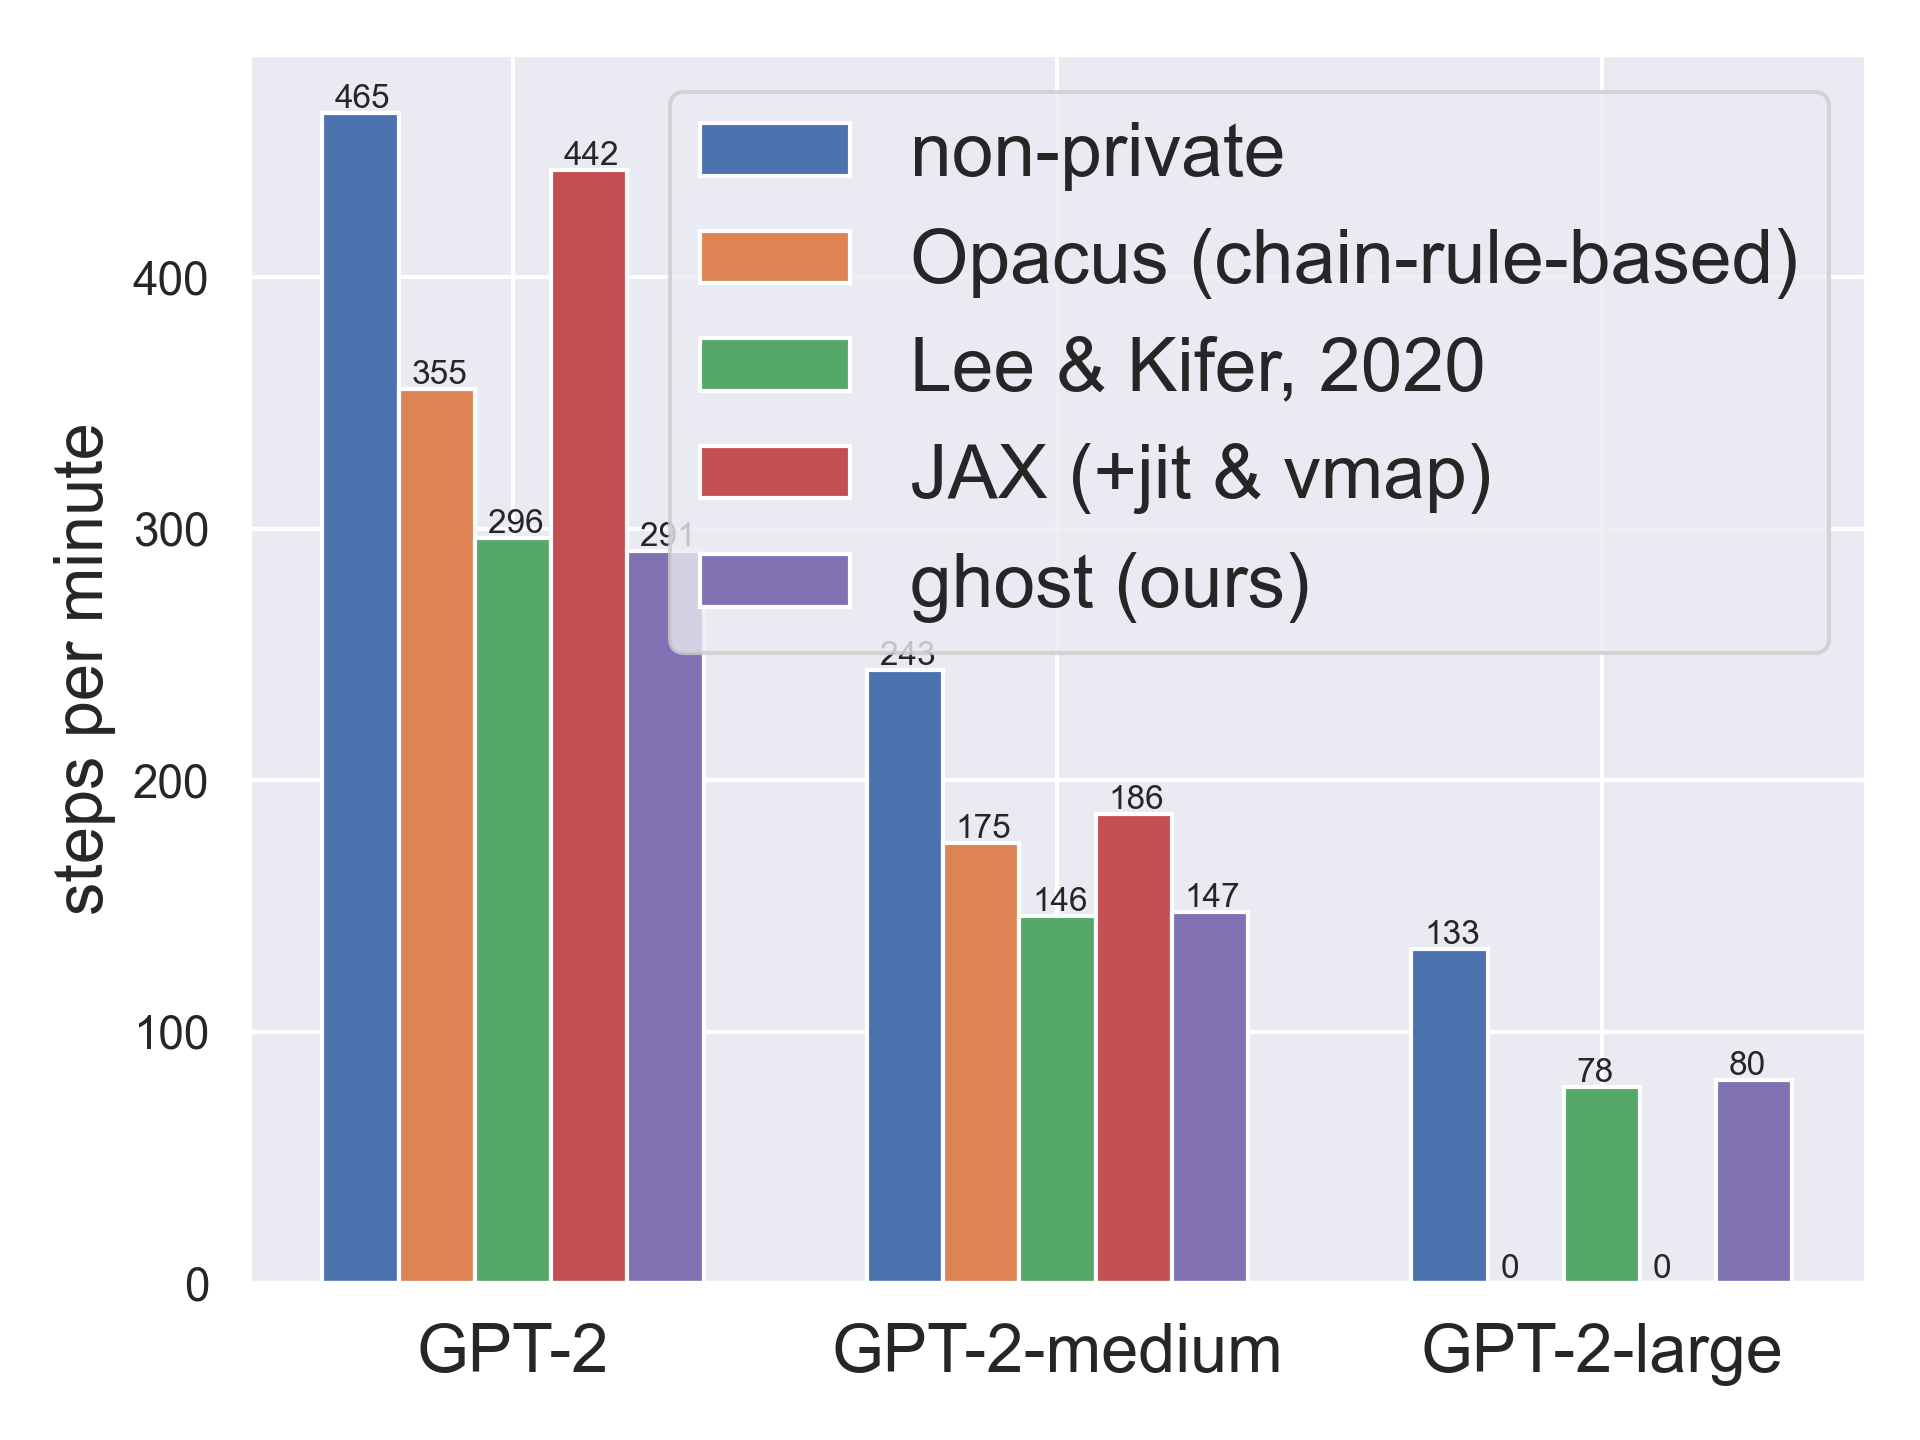
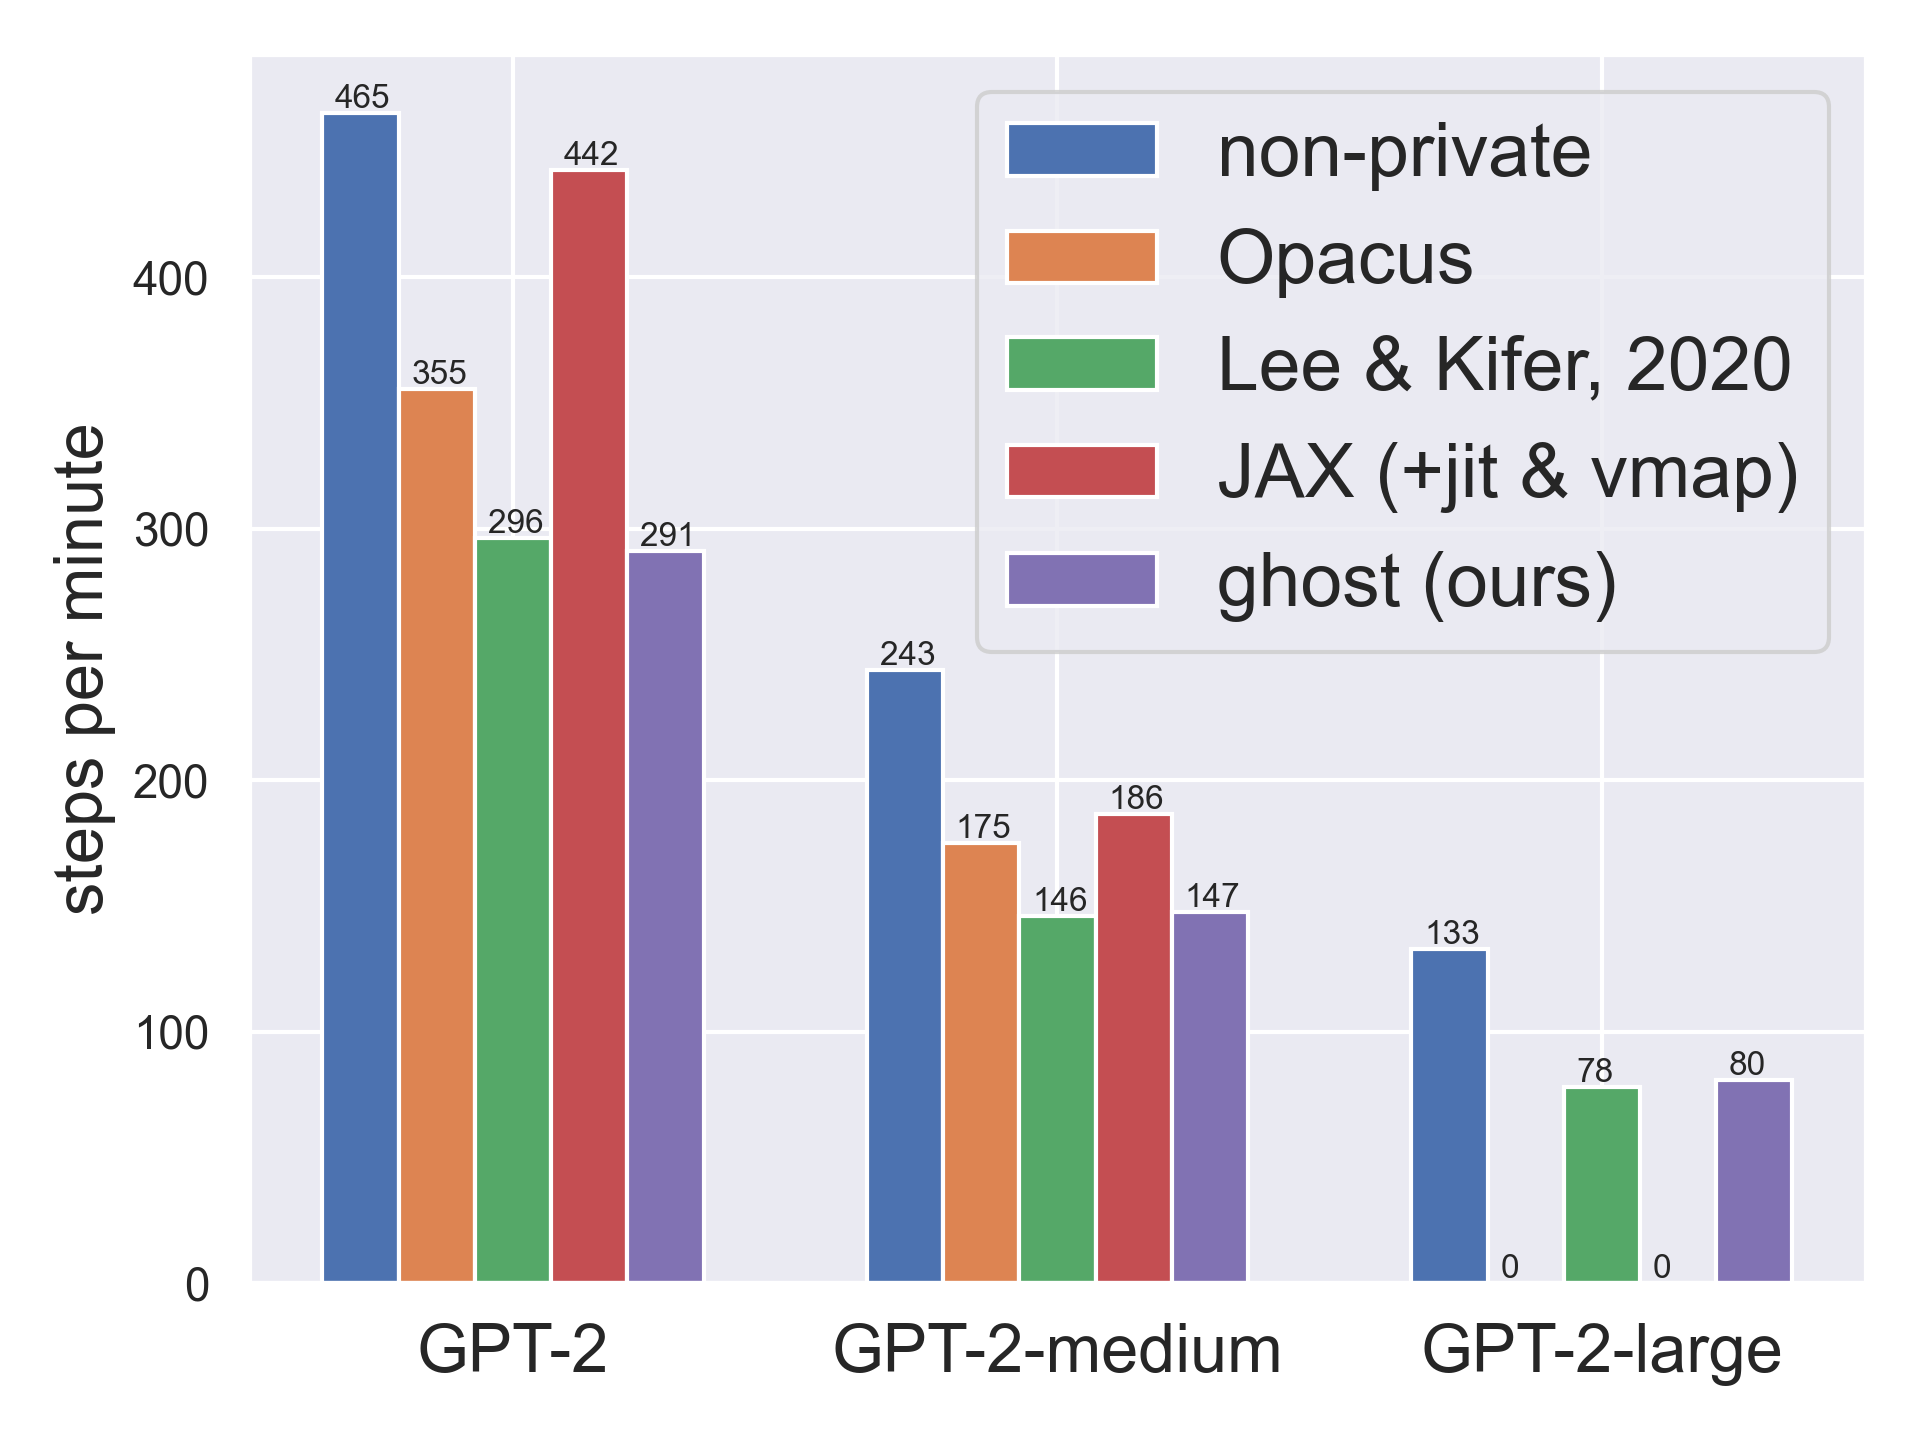
Fix memory.

Changed region(s): [[0.3438, 0.1562, 0.9375, 0.4688], [0.3438, 0.0625, 0.8438, 0.125]]

diff --git a/memory/plot_examples_per_unit_time.py b/memory/plot_examples_per_unit_time.py
@@ -19,7 +19,7 @@ sns.set_theme(style="darkgrid")
 def mode2label(mode):
     return {
         "nonprivate": "non-private",
-        "vanilla": "Opacus (chain-rule-based)",
+        "vanilla": "Opacus",
         "layer_by_layer": "Lee & Kifer, 2020",
         "ghost": "ghost (ours)",
         "jax": "JAX (+jit & vmap)",

diff --git a/memory/plot.py b/memory/plot.py
@@ -25,7 +25,7 @@ def autolabel(rects):
 def mode2label(mode):
     return {
         "nonprivate": "non-private",
-        "vanilla": "Opacus (chain-rule-based)",
+        "vanilla": "Opacus",
         "layer_by_layer": "Lee & Kifer, 2020",
         "ghost": "ghost (ours)",
         "jax": "JAX (+jit & vmap)",
